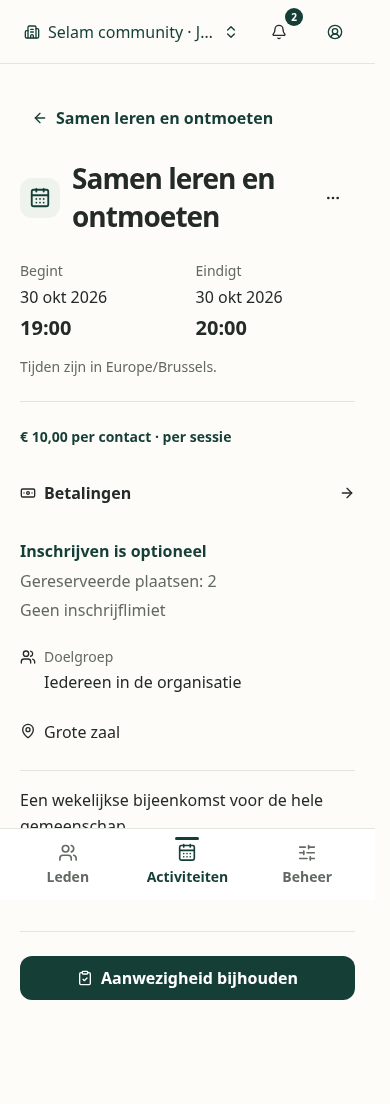
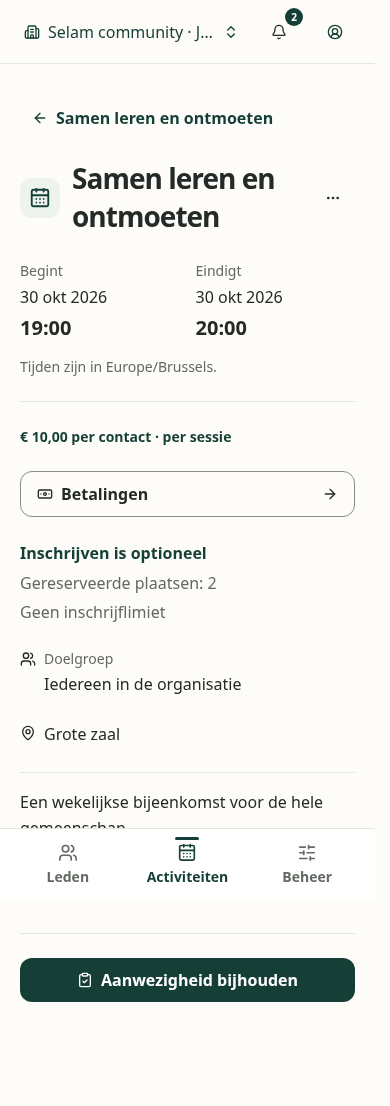
Restore a fully outlined Payments button within page gutters

diff --git a/src/activities/Sessions.tsx b/src/activities/Sessions.tsx
@@ -243,7 +243,7 @@ export default function Sessions({
           </p>
         )}
         {full && canCash && canOperate && (
-          <Button variant="ghost" className="session-payment-link" asChild>
+          <Button variant="outline" className="session-payment-link" asChild>
             <Link
               to="/workspace/$organizationId/activities/$activityId/sessions/$sessionId/cash"
               params={{

diff --git a/src/styles/workspace.css b/src/styles/workspace.css
@@ -2319,9 +2319,10 @@ button[data-slot="button"].people-section-add {
 
 .session-payment-link {
   justify-content: flex-start;
-  padding-inline: 0;
+  width: 100%;
+  min-width: 0;
+  padding-inline: var(--space-4);
   align-self: stretch;
-  border-radius: 0;
 }
 .session-payment-link > svg:last-child {
   margin-inline-start: auto;

diff --git a/docs/INFRASTRUCTURE.md b/docs/INFRASTRUCTURE.md
@@ -686,3 +686,7 @@ Deployment confirmed: implementation `0632f45` pushed to `rebuild/people-foundat
 Fixed the Payments navigation row on session detail: a rounded link button with only block borders produced a broken curved outline. It now uses the shared ghost variant with a square, borderless row, leading icon/label and trailing arrow. The primary attendance action is unchanged. Updated the synthetic mobile reference. Typecheck, production build, contrast and diff checks passed; Chromium verified nine EN/NL/TR views at 320/390/768px for zero borders, zero radius, aligned edge icons, 44px minimum height and no overflow.
 
 Deployment verified: `803d88b` pushed; himmah-hub version `f04b1933-d8cf-45f5-8dd8-abcf7027e189` at 100%. Binding names/types, People enabled, maintenance false and minute cron preserved. No database/auth changes.
+
+## 29 October 2026 — restore an outlined Payments button
+
+Owner clarified that Payments should remain visibly a button. Replaced the borderless row with the shared outline variant: a complete border and normal control corners, full width within the parent content box, and 16px internal padding around the leading icon/label and trailing arrow. This supersedes the borderless treatment above. Typecheck, build, contrast and diff checks passed; nine Chromium EN/NL/TR views at 320/390/768px verified all four 1px borders, 12px corners, padded icons, preserved page gutters, 44px minimum height and no overflow. Updated the synthetic mobile reference.
